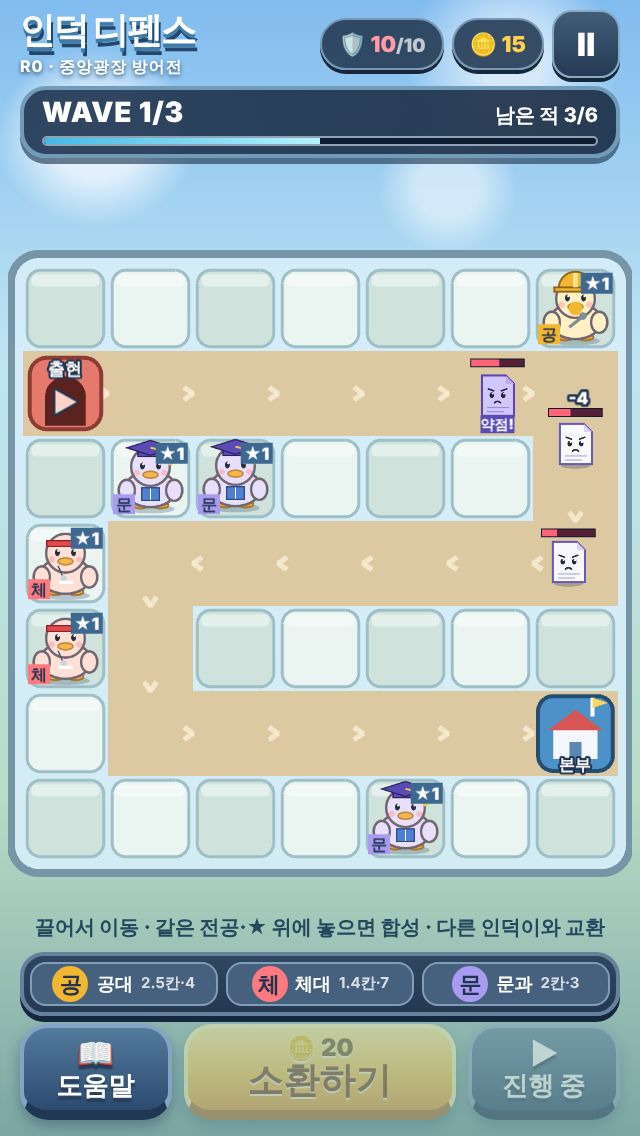
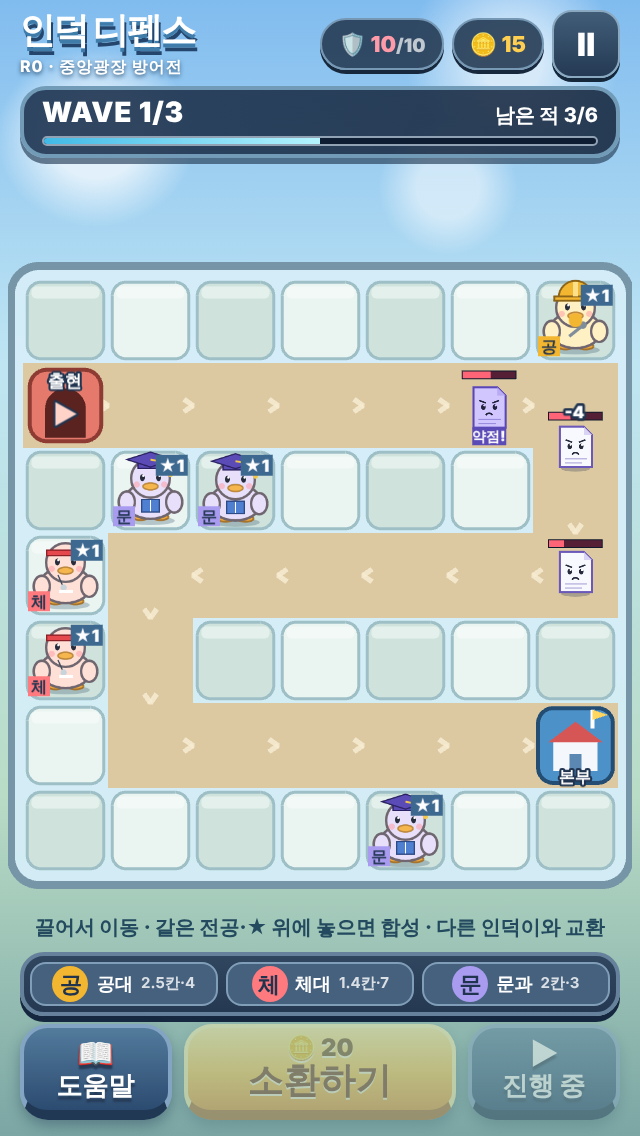
fix(r0): drag robustness, board layout headroom; add QA report and playthrough E2E
- Recover from a lost pointer release instead of locking input
- Keep lifted unit and drop label inside the canvas; limit top headroom
- Shorter wave button label so it fits 320-360 px widths
- Freeze ticks in the ready phase (before START_RUN)
- Full browser playthrough to victory as an E2E test
- docs: implementation plan, R0 test report, logs and viewport screenshots

Claude-Session: https://claude.ai/code/session_011J2VVKDm6FfFmovtJVUthF

diff --git a/e2e/mobile.spec.ts b/e2e/mobile.spec.ts
@@ -257,3 +257,42 @@ test('WAVE-01 in browser: no defenders → defeat overlay → restart', async ({
   expect(s).toMatchObject({ phase: 'ready', baseHp: 10, coin: 120, wave: 0, tick: 0, seed: SEED });
   expect(s.units).toHaveLength(0);
 });
+
+test('full run in browser: QA seed, bot plays through the UI command bridge → victory overlay', async ({ page }) => {
+  test.setTimeout(240_000);
+  await page.setViewportSize({ width: 390, height: 844 });
+  await boot(page);
+  const near = [[2, 2], [3, 2], [4, 2], [5, 2], [2, 4], [3, 4], [4, 4], [5, 4], [5, 0], [4, 0], [3, 0], [0, 4], [0, 3], [2, 6], [3, 6], [4, 6], [1, 2], [6, 4]];
+  let phase = 'intermission';
+  for (let i = 0; i < 400 && phase !== 'victory' && phase !== 'defeat'; i++) {
+    phase = await page.evaluate((near) => {
+      const qa = window.__INDUCK_QA__ as QA;
+      while (qa.dispatch({ type: 'SUMMON' }).accepted);
+      for (let merged = true; merged; ) {
+        merged = false;
+        const s = qa.snapshot();
+        for (const a of s.units) {
+          const b = s.units.find((u) => u.id !== a.id && u.major === a.major && u.star === a.star && u.star < 4);
+          if (b && qa.dispatch({ type: 'DROP_UNIT', unitId: a.id, to: b.cell }).accepted) {
+            merged = true;
+            break;
+          }
+        }
+      }
+      [...qa.snapshot().units]
+        .sort((a, b) => b.star - a.star)
+        .forEach((u, i) => near[i] && qa.dispatch({ type: 'DROP_UNIT', unitId: u.id, to: { x: near[i]![0]!, y: near[i]![1]! } }));
+      const s = qa.snapshot();
+      if (s.phase === 'intermission') qa.dispatch({ type: 'START_WAVE' });
+      return s.phase;
+    }, near);
+    if (i === 60) await page.screenshot({ path: `${SHOTS}/390x844-midwave.png` });
+    await page.waitForTimeout(500);
+  }
+  expect(phase).toBe('victory');
+  await expect(page.locator('#modal')).toContainText('방어 성공');
+  await page.screenshot({ path: `${SHOTS}/390x844-victory.png` });
+  const s = await snap(page);
+  expect(s.wave).toBe(3);
+  expect(s.baseHp).toBeGreaterThan(0);
+});

diff --git a/src/game/BattleScene.ts b/src/game/BattleScene.ts
@@ -126,8 +126,9 @@ export class BattleScene extends Phaser.Scene {
     this.tile = Math.floor(Math.min((width - pad * 2) / map.width, (height - pad * 2) / map.height));
     this.ox = Math.round((width - this.tile * map.width) / 2);
     // Spare vertical space goes mostly above the board so a lifted unit (drawn above the finger) stays visible.
-    const slackY = height - this.tile * map.height - pad * 2;
-    this.oy = Math.round(pad + slackY * 0.7);
+    const slackY = Math.max(0, height - this.tile * map.height - pad * 2);
+    const headroom = Math.min(slackY, this.tile * 0.9);
+    this.oy = Math.round(pad + headroom + (slackY - headroom) / 2);
     this.drawBoard();
     for (const s of this.units.values()) s.root.destroy();
     this.units.clear();
@@ -467,7 +468,13 @@ export class BattleScene extends Phaser.Scene {
   }
 
   private onPointerDown(p: Phaser.Input.Pointer): void {
-    if (this.gesture || !this.canInteract()) return;
+    if (this.gesture) {
+      // A gesture whose pointer is no longer down lost its release event: cancel instead of locking input.
+      const owner = this.input.manager.pointers.find((pp) => pp.id === this.gesture!.pointerId);
+      if (owner?.isDown && owner !== p) return;
+      this.cancelGesture();
+    }
+    if (!this.canInteract()) return;
     const cell = this.cellAt(p.x, p.y);
     const unit = this.unitAt(cell);
     this.gesture = { pointerId: p.id, startX: p.x, startY: p.y, cell, unitId: unit?.id ?? null, lifted: false };

diff --git a/docs/qa/R0-test-report.md b/docs/qa/R0-test-report.md
@@ -1,0 +1,64 @@
+# INDUCK-R0-001 · R0 테스트 보고서 (아테나 자체 검증)
+
+> 작성: 아테나(Claude) · 2026-10-14 (UTC)
+> **이 문서는 구현자 자체 검증이다.** 독립 QA(라온)·경로 검증(나루)·모바일 UX 검수(모아) 결과가 아니며, 이 보고서만으로 R0 완료를 선언하지 않는다(계약 §8).
+
+## 1. 실행 환경
+
+| 항목 | 값 |
+|---|---|
+| 기준 커밋 | `main` @ `2d1a812732e900d3484df2cc5dc7244ceb88235b` (Initial README) |
+| 작업 브랜치 | `ccr-cd9ce6b1-u5hiww` (최종 HEAD SHA는 PR 본문·결과 보고에 기재) |
+| OS / 런타임 | Linux 6.18 (클라우드 컨테이너), Node.js 22.22.0, npm 10.9.4 |
+| 브라우저 | Playwright 1.56.1 번들 Chromium (headless, build 1194) — **실기기 아님** |
[1 lines of base64/hex data omitted]
+| ruleset / seed | `R0` / QA seed `20261015` |
+
+## 2. 실행 명령과 결과
+
+| 명령 | 결과 | 원본 로그 |
+|---|---|---|
+| `npm run typecheck` | PASS (오류 0) | — |
+| `npm test` (Vitest 4.1.11) | PASS 50/50 | [`vitest-output.txt`](vitest-output.txt) |
+| `npm run build` (tsc + Vite 7.3.7) | PASS | [`build-output.txt`](build-output.txt) |
+| `npm run test:e2e` (Playwright) | PASS 11/11 | [`e2e-output.txt`](e2e-output.txt) |
+| `npm audit` | 취약점 0 | — |
+
+## 3. 계약 §8 게이트 판정
+
+| ID | 판정 | 근거 (테스트) | 비고 |
+|---|---|---|---|
+| MAP-01 | **PASS** (구현자) | `tests/core/mapValidation.test.ts` — 해시 일치, plaza 7×7·21점·28칸, lake 14/10·28칸, building5 10/9·29칸 모두 `ok` | 나루의 `map-validation-report.json` 교차 확인 필요 |
+| MAP-02 | **PASS** (구현자) | 경로 끊김·물/벽/배치칸 침범·외부 좌표·S/B 불일치·출현점 누락·차원 오류·미지 타일·B 2개 → 각 오류 코드, 잘못된 맵은 세션 생성 거부 | 나루 독립 재현 필요 |
+| RUN-01 | **PASS** | `movement.test.ts` — 매 tick 경로 중심선 위·S→…→B 순서 타일 방문, 적 6기 각 1회 도착, HP 10→4, 1.0칸/s에서 20칸=400±1 tick | 브라우저 화면에서도 S자 이동 관찰(스크린샷) |
+| RUN-02 | **PASS** | `determinism.test.ts` — 동일 replay 20회 바이트 동일, 다른 seed는 결과 상이, 불규칙 프레임 실시간 세션 → replay 동일 상태. E2E `UI ↔ core sync` — 브라우저 세션 로그를 Node에서 재생해 Snapshot 완전 일치 | 나루 독립 재현 필요 |
+| COMBAT-01 | **PASS** | `combat.test.ts` — 동일 seed·동일 유닛, 길 사이(2,2) 배치 vs 구석(0,6) 배치 → 처치 수·본부 HP 상이. 봇 비교: 길 옆 배치 59/60 승 vs 무작위 배치 11/60 승 | 라온 독립 검증 필요 |
+| COMBAT-02 | **PASS** (구현자) | (0,6) 체대(사거리 1.4, 최근접 도로 중심 1.414)는 한 번도 발사 안 함 / 사망 적 추가 피해 0 / 잔여경로→spawnOrder→id 동률 규칙 / 전공별 쿨다운 18·20·14 tick | 라온 레드팀 필요 |
+| INPUT-01 | **PASS** (자동화) | 단위: 이동·합성(대상 id 유지, ★+1, 쿨다운 0)·교환·제자리 no-op·탭 경로. E2E: 마우스 드래그로 이동/합성/교환, 탭-탭 이동, CDP 터치 드래그 이동 | 실기기 손맛 UNKNOWN |
+| INPUT-02 | **PASS** (자동화) | 단위: 길·S·B·물·벽 `FORBIDDEN_TERRAIN`, 범위 밖 `OUT_OF_BOUNDS`, 상태 deep-equal 불변. E2E: 길/S/B 드롭 + 보드 밖 + 캔버스 밖 해제 + touchcancel → 원위치, 유닛·코인 불변 | 실기기 UNKNOWN |
+| INPUT-03 | **PASS** | ★4 합성 `MAX_STAR`(교환 없음), 코인 19 `NO_FUNDS`, 28칸 가득 `BOARD_FULL` — 모두 RNG 포함 상태 불변 | — |
+| WAVE-01 | **PASS** | 단위: 무방비 W1 HP 10→4, W2 패배 1회·이후 동결, RESTART=새 세션과 동일, PAUSE 동결. E2E: 패배 오버레이→재시작, QA seed 전체 플레이 → 승리 오버레이 | — |
+| UI-01 | **PASS (에뮬레이션)** / 실기기 **UNKNOWN** | E2E 320×568·360×640·390×844(DPR 2, touch): `scrollHeight ≤ clientHeight+1`, 가로 넘침 없음, scrollY 0, 주요 버튼·HUD·캔버스·7×7 보드 전부 뷰포트 안, 칸 ≥ 36 CSS px | 브라우저 주소창·노치·safe-area 실측은 실기기 필요 |
+| REG-01 | **PASS (자동화)** / 실기기 **UNKNOWN** | v0.2 핵심 동작 유지: 랜덤 소환 버튼, 손가락 위로 뜨는 드래그 고스트(1.17배·기울기), 빈 칸 이동·합성·교환, 탭 선택 대체 경로, 원위치 복귀 애니메이션, 일시정지/도움말 | v0.2의 강화·상점·보석은 R0 범위 밖이라 미이식 |
+| SEC-01 | **PASS** (구현자) | 비밀정보·토큰·개인정보 없음, 외부 이미지/폰트/CDN 없음, 공식 인덕이·학교 에셋 없음, v0.2 HTML 코드 미복사(신규 작성), 의존성 라이선스 MIT/Apache-2.0/ISC/BSD-3 | 맵 JSON 공개 여부는 설계자 확인 요청(§5) |
+
+**실기기에서 확인하지 않은 항목은 PASS로 표시하지 않았다.** 위 "PASS (에뮬레이션/자동화)"는 headless Chromium 기준이다.
+
+## 4. 스크린샷 (`docs/qa/screenshots/`)
+
+| 파일 | 내용 |
+|---|---|
+| `320x568-title.png`, `360x640-title.png`, `390x844-title.png` | 시작 안내 오버레이 |
+| `320x568-battle.png`, `360x640-battle.png`, `390x844-battle.png` | 웨이브 1 진행 중 전투 화면 |
+| `touch-drag-ghost.png` | 터치 드래그 중 고스트·이동 미리보기·사거리 원 |
+| `input-merge.png`, `tap-select-range.png` | 합성 직후 / 탭 선택 사거리 표시 |
+| `390x844-midwave.png`, `390x844-victory.png`, `390x844-defeat.png` | 전체 플레이 중반 / 승리 / 패배 |
+
+## 5. 알려진 제한·위험
+
+1. **실기기 미검증:** iOS Safari·Android Chrome 실제 터치, 주소창 높이 변화, 노치 safe-area, 진동 피드백, 프레임 안정성은 확인하지 못함.
+2. **맵 JSON 공개:** 런타임 데이터라 공개 레포에 바이트 동일 사본을 포함함(격자·좌표·장소명만, 비밀정보 없음). 설계자가 공개를 원치 않으면 BLOCKED 처리 후 대체 필요.
+3. **밸런스는 시험값:** 웨이브·적 수치는 테스트 가능성 기준 fixture(`fixtures/r0/ruleset.json`). 봇 기준 난이도이며 사람 플레이테스트 전.
+4. **문과대생 약점 효과·웨이브 보너스는 계약 확장(PROPOSED)** — `docs/implementation-plan.md` §6.
+5. 번들 크기 약 1.25 MB(gzip 348 KB) — 대부분 Phaser. 저속망 첫 로딩 지연 가능.
+6. 라이선스 미정 저장소 — 외부 기여·재사용 조건 미결.
